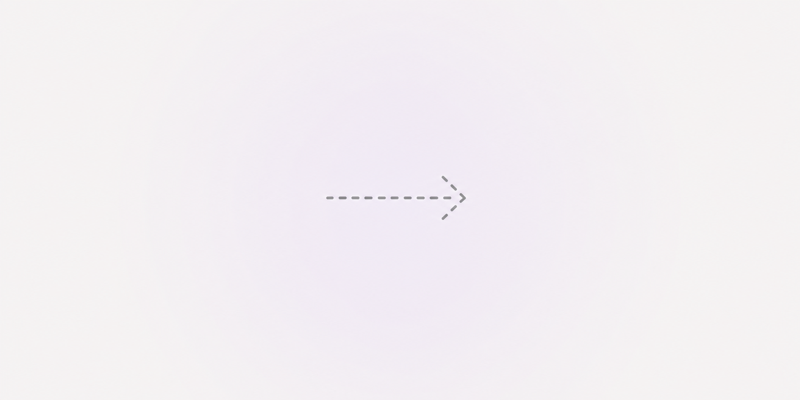
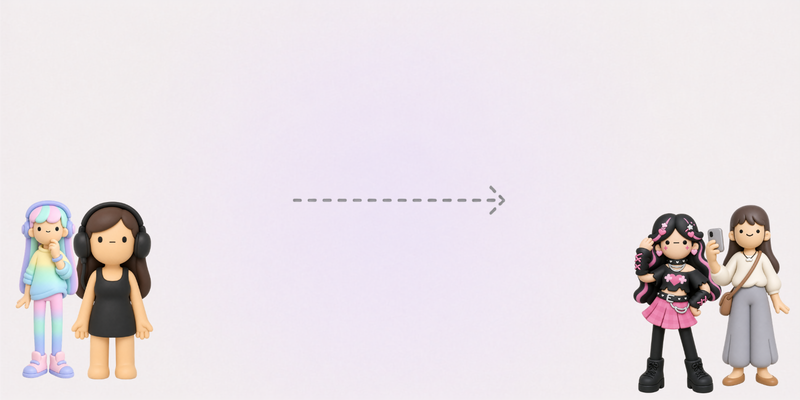
DMGインストーラーのFinderレイアウトと初回起動手順を整備

Changed region(s): [[0.7812, 0.51, 1.0, 0.99], [0.0, 0.48, 0.1875, 0.96], [0.375, 0.48, 0.625, 0.54]]

diff --git a/README.md b/README.md
@@ -430,6 +430,12 @@ swift build
 swift test
 ```
 
+### DMGからインストールする場合
+
+ダウンロードしたDMGからインストールしたアプリは、初回起動時にGatekeeperによって開けない場合があります。
+その場合は「システム設定」→「プライバシーとセキュリティ」を開き、Veloura Lucentの「このまま開く」を選択して、表示される確認画面で「開く」を選んでください。
+手動で許可した後は、通常どおり起動できます。
+
 ## 注意
 
 - ラウドネス、True Peak、ノイズ値、スペクトル量は確認材料です。最終判断は試聴で行います。
